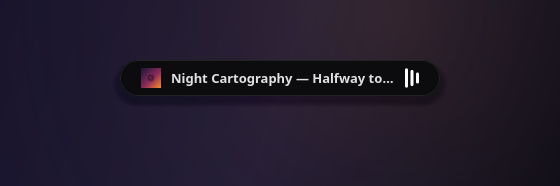
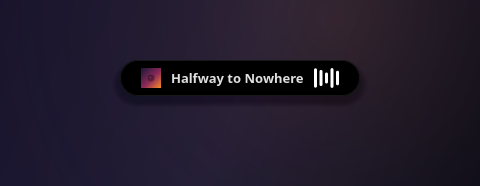
docs: title-only pill in shots and demo

Changed region(s): [[0.2188, 0.3226, 0.7812, 0.5108]]

diff --git a/scripts/render-shots.py b/scripts/render-shots.py
@@ -196,9 +196,9 @@ def main():
     # idle pill
     snap(Pill(CFG), "pill", 26, 0.0)
 
-    # music pill
+    # music pill — title only, the artist stays in the card
     pill = Pill(CFG)
-    pill.show_music("Night Cartography — Halfway to Nowhere", ART, True)
+    pill.show_music("Halfway to Nowhere", ART, True)
     snap(pill, "music-pill", 26, 0.3)
 
     # volume peek
